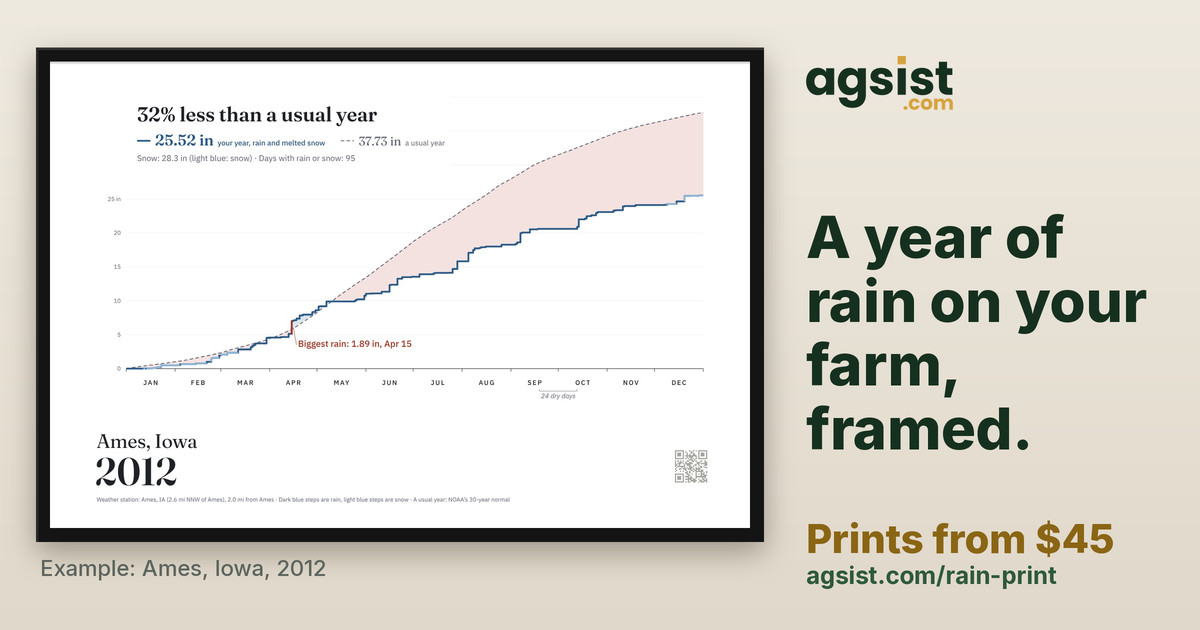
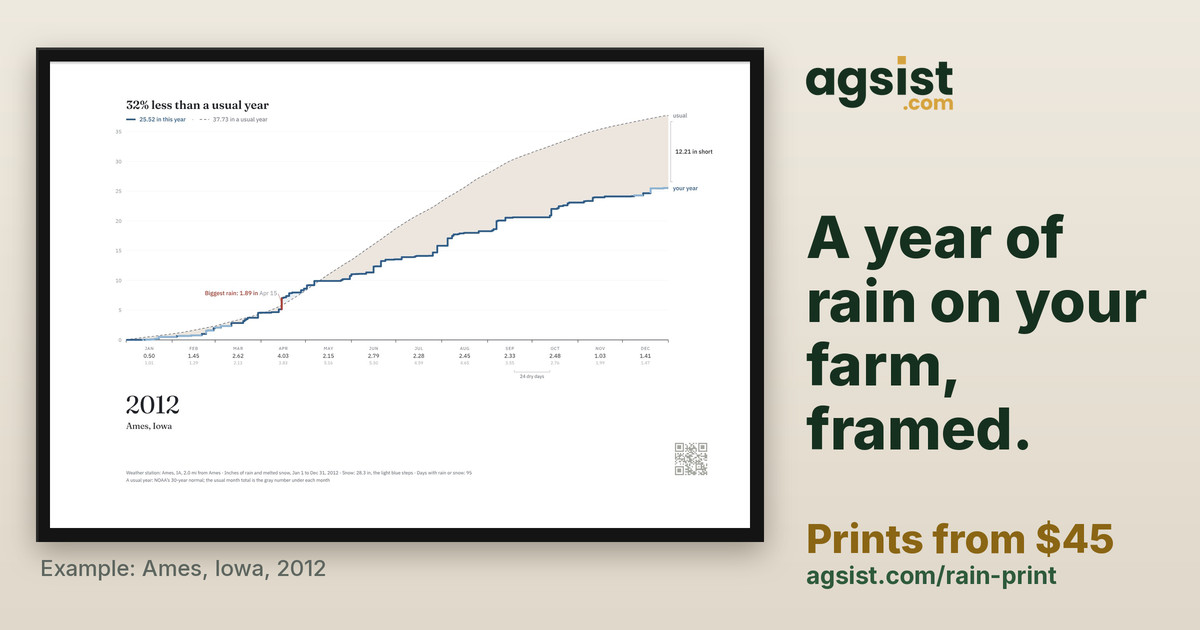
Rain Print share image and homepage thumb redrawn in the A2 clean style

diff --git a/rain-print.html b/rain-print.html
@@ -26,7 +26,7 @@
   <meta property="og:title"        content="Rain Print: a year of rain and snow at the farm, printed and framed">
   <meta property="og:description"  content="Every rain and snow of one year at the weather station nearest a farm or hometown, drawn and printed on 13 x 19 paper with a name and dates. A gift for the farmer.">
   <meta property="og:url"          content="https://agsist.com/rain-print">
-  <meta property="og:image"        content="https://agsist.com/img/og/rain-print.jpg?v=7cd1030a">
+  <meta property="og:image"        content="https://agsist.com/img/og/rain-print.jpg?v=378d9c2f">
   <meta property="og:image:width"  content="1200">
   <meta property="og:image:height" content="630">
   <meta property="og:image:alt"    content="An example Rain Print in a black frame: every rain and snow of 2012 at Ames, Iowa, from NOAA records, stepping up across the months below a usual year. A year of rain on your farm, framed. Prints from $45.">
@@ -34,10 +34,10 @@
   <meta name="twitter:site"        content="@agsist">
   <meta name="twitter:title"       content="Rain Print: a year of rain and snow at the farm, printed and framed">
   <meta name="twitter:description" content="Every rain and snow of one year at the weather station nearest a farm or hometown, drawn and printed on 13 x 19 paper with a name and dates. A gift for the farmer.">
-  <meta name="twitter:image"       content="https://agsist.com/img/og/rain-print.jpg?v=7cd1030a">
+  <meta name="twitter:image"       content="https://agsist.com/img/og/rain-print.jpg?v=378d9c2f">
   <script>/* agsist-theme-early: saved theme, else the device's, set before first paint so pages do not flash the wrong color. loader.js applies the same rule. */try{var _t=localStorage.getItem('agsist-theme');if(_t!=='light'&&_t!=='dark')_t=window.matchMedia&&matchMedia('(prefers-color-scheme: light)').matches?'light':'dark';document.documentElement.setAttribute('data-theme',_t);}catch(e){}</script><script>/* agsist-ga-guard 2026-10-17: Google Analytics loads only when the browser sends no Global Privacy Control signal, the off switch on /privacy is not set and the browser is not automated (navigator.webdriver, or a headless, Lighthouse or bot UA string), and only once the page is shown (a page loaded ahead in the background is not a visit). dataLayer and gtag always exist, so page code that calls them never throws. */(function(w,d,n){var off=false,v,i,s,u;w.dataLayer=w.dataLayer||[];if(typeof w.gtag!=='function'){w.gtag=function(){w.dataLayer.push(arguments);};}try{off=w.localStorage.getItem('agsist-ga-off')==='1';}catch(e){}if(n.globalPrivacyControl===true){off=true;}u=n.userAgent||'';if(n.webdriver===true||(/HeadlessChrome|PhantomJS|Lighthouse|bot|crawler|spider/i.test(u)&&!/cubot/i.test(u))){off=true;}w.agsistGaOff=off;w.gtag('set','allow_google_signals',false);w.gtag('set','allow_ad_personalization_signals',false);if(off){return;}i=function(){s=d.createElement('script');s.async=true;s.src='https://www.googletagmanager.com/gtag/js?id=G-6KXCTD5Z9H';(d.head||d.documentElement).appendChild(s);};if(d.prerendering){d.addEventListener('prerenderingchange',i,{once:true});}else{i();}})(window,document,navigator);</script>
   <script>window.dataLayer=window.dataLayer||[];function gtag(){dataLayer.push(arguments);}gtag('js',new Date());/* Rain Print keeps the farm name, dates and town in the URL; Analytics gets the bare path only (privacy audit 2026-10-12). */gtag('set',{page_location:location.origin+location.pathname});gtag('config','G-6KXCTD5Z9H',{page_location:location.origin+location.pathname,page_referrer:document.referrer?document.referrer.split('?')[0]:''});</script>
-  <script type="application/ld+json">{"@context": "https://schema.org", "@graph": [{"@type": "WebApplication", "name": "Rain Print by AGSIST", "description": "Draws one year of daily precipitation at the nearest weather station as printable wall art.", "url": "https://agsist.com/rain-print", "applicationCategory": "DesignApplication", "operatingSystem": "Web", "isAccessibleForFree": true}, {"@type": "Product", "name": "Rain Print", "description": "One year of daily rain and snow at the NOAA weather station nearest a farm or town, drawn and printed on 13 x 19 in paper with a name and dates.", "brand": {"@type": "Brand", "name": "AGSIST"}, "url": "https://agsist.com/rain-print", "offers": [{"@type": "Offer", "name": "Digital file", "price": "19", "priceCurrency": "USD", "url": "https://agsist.com/rain-print", "sku": "rp-digital", "availability": "https://schema.org/MadeToOrder", "itemCondition": "https://schema.org/NewCondition", "seller": {"@type": "Person", "name": "Sigurd Lindquist", "jobTitle": "Certified Crop Adviser (CCA)", "url": "https://agsist.com/about", "affiliation": {"@type": "Organization", "name": "AGSIST", "url": "https://agsist.com/"}}, "hasMerchantReturnPolicy": {"@type": "MerchantReturnPolicy", "applicableCountry": "US", "returnPolicyCategory": "https://schema.org/MerchantReturnNotPermitted", "merchantReturnLink": "https://agsist.com/rain-print#rp-faq-h", "description": "The digital file comes finished; if you want anything changed, write to me and I’ll fix it or redo it by hand and send it again, no charge."}}, {"@type": "Offer", "name": "Print on 13 x 19 in paper, unframed, shipping included", "price": "45", "priceCurrency": "USD", "url": "https://agsist.com/rain-print", "sku": "rp-print-12x18", "availability": "https://schema.org/MadeToOrder", "itemCondition": "https://schema.org/NewCondition", "seller": {"@type": "Person", "name": "Sigurd Lindquist", "jobTitle": "Certified Crop Adviser (CCA)", "url": "https://agsist.com/about", "affiliation": {"@type": "Organization", "name": "AGSIST", "url": "https://agsist.com/"}}, "shippingDetails": {"@type": "OfferShippingDetails", "shippingRate": {"@type": "MonetaryAmount", "value": "0", "currency": "USD"}, "shippingDestination": {"@type": "DefinedRegion", "addressCountry": "US", "addressRegion": ["AL", "AK", "AZ", "AR", "CA", "CO", "CT", "DE", "FL", "GA", "HI", "ID", "IL", "IN", "IA", "KS", "KY", "LA", "ME", "MD", "MA", "MI", "MN", "MS", "MO", "MT", "NE", "NV", "NH", "NJ", "NM", "NY", "NC", "ND", "OH", "OK", "OR", "PA", "RI", "SC", "SD", "TN", "TX", "UT", "VT", "VA", "WA", "WV", "WI", "WY"]}}, "hasMerchantReturnPolicy": {"@type": "MerchantReturnPolicy", "applicableCountry": "US", "returnPolicyCategory": "https://schema.org/MerchantReturnNotPermitted", "merchantReturnLink": "https://agsist.com/rain-print#rp-faq-h", "description": "Made to order with your name and dates, so it can’t be returned once printed. Full refund if you change your mind before I print. If I print something different from the proof you OK’d, I reprint it free. Lost or damaged in shipping: reprinted or reframed for $15."}}, {"@type": "Offer", "name": "Framed print, 13 x 19 black frame with a white mat, shipping included", "price": "89", "priceCurrency": "USD", "url": "https://agsist.com/rain-print", "sku": "rp-framed-12x18", "availability": "https://schema.org/MadeToOrder", "itemCondition": "https://schema.org/NewCondition", "seller": {"@type": "Person", "name": "Sigurd Lindquist", "jobTitle": "Certified Crop Adviser (CCA)", "url": "https://agsist.com/about", "affiliation": {"@type": "Organization", "name": "AGSIST", "url": "https://agsist.com/"}}, "shippingDetails": {"@type": "OfferShippingDetails", "shippingRate": {"@type": "MonetaryAmount", "value": "0", "currency": "USD"}, "shippingDestination": {"@type": "DefinedRegion", "addressCountry": "US", "addressRegion": ["AL", "AK", "AZ", "AR", "CA", "CO", "CT", "DE", "FL", "GA", "HI", "ID", "IL", "IN", "IA", "KS", "KY", "LA", "ME", "MD", "MA", "MI", "MN", "MS", "MO", "MT", "NE", "NV", "NH", "NJ", "NM", "NY", "NC", "ND", "OH", "OK", "OR", "PA", "RI", "SC", "SD", "TN", "TX", "UT", "VT", "VA", "WA", "WV", "WI", "WY"]}}, "hasMerchantReturnPolicy": {"@type": "MerchantReturnPolicy", "applicableCountry": "US", "returnPolicyCategory": "https://schema.org/MerchantReturnNotPermitted", "merchantReturnLink": "https://agsist.com/rain-print#rp-faq-h", "description": "Made to order with your name and dates, so it can’t be returned once printed. Full refund if you change your mind before I print. If I print something different from the proof you OK’d, I reprint it free. Lost or damaged in shipping: reprinted or reframed for $15."}}], "image": ["https://agsist.com/img/og/rain-print.jpg?v=7cd1030a", "https://agsist.com/img/rain-print-example-2012-ames-ia.jpg", "https://agsist.com/img/rain-print-example-1993-des-moines-ia.jpg"], "sku": "rain-print"}, {"@type": "FAQPage", "mainEntity": [{"@type": "Question", "name": "Where does the rain data come from?", "acceptedAnswer": {"@type": "Answer", "text": "From the nearest weather station with a good record for that year, from NOAA’s daily records. Some are National Weather Service stations, some are rain gauges kept by volunteers; the line under the picture says which. The print names the station and how far it is from town, in a small line at the bottom. It’s that station’s gauge, so a storm that hit the farm and missed the station won’t show. If there’s a station closer to the farm, pick it under Weather station, in More options."}}, {"@type": "Question", "name": "What does “a usual year” mean?", "acceptedAnswer": {"@type": "Answer", "text": "When you compare with NOAA’s 30-year normal, a usual year is that normal for the station. When you compare with the station’s full record, it’s the station’s own average over every year it has kept. Either way, a day the station didn’t report is left out of both totals. The print says which one it used."}}, {"@type": "Question", "name": "What if the station missed days?", "acceptedAnswer": {"@type": "Answer", "text": "Missing days show as gaps, never as dry days, and a small line on the print says what a gap is. The page reads the three nearest stations and picks the first with 10 or fewer missing days. A station missing 11 to 31 days can still be drawn, and the line under the print says how many. A station missing more than 31 days in the year gets no print, because the gaps would look like dry weeks that may not have been dry. A morning reading is filed under the day it was read, so an evening storm can show on the next day."}}, {"@type": "Question", "name": "Does it show snow?", "acceptedAnswer": {"@type": "Answer", "text": "Yes, where the station kept a snowfall record nearly every day. Snow is drawn above the line, never below it, and looks different from rain, so you can tell a snow day from a rain at a glance. If the station didn’t keep snowfall, the snow is still counted, melted down to water the way the gauge measures it, but it can’t be drawn as snow. The year in numbers, under More options, says which."}}, {"@type": "Question", "name": "How are the crop stages placed?", "acceptedAnswer": {"@type": "Answer", "text": "Mark the planting day and the harvest day, then pick corn or soybeans under More options. Each stage goes on the day the growing degree days at the station reached it, counted from planting the same way as the GDU calculator: each day’s high and low held between 50°F and 86°F, averaged, less 50. Corn stages use Purdue’s NCH-40 numbers for a 2,700 GDU hybrid. Soybeans show emergence and V3 only: their flowering and maturity depend on day length and variety, so they are not drawn. A day with no temperature reading stops the count, and no later stage is claimed. Compare with a usual year runs the same crop on NOAA’s 1991 to 2020 normal temperatures and says how many days ahead or behind silking (corn) or V3 (soybeans) came."}}, {"@type": "Question", "name": "Where do the frost dates and temperatures come from?", "acceptedAnswer": {"@type": "Answer", "text": "From the nearest weather station that kept daily highs and lows that year, often the same one as the rain; the print names it. Frost is a low of 32°F or colder: the last one before August and the first one after July get a small mark on the date line. If a missing reading could hide a later or earlier frost, that frost is left off. The hottest and coldest day go in the small print. Daily temperatures adds a thin band under the chart with each day’s high and low; a day with no reading is a gap."}}, {"@type": "Question", "name": "What are the gray lines behind the year?", "acceptedAnswer": {"@type": "Answer", "text": "That’s the Every year behind your year option. Each gray line is another full year the station kept, every day reported, drawn the same way as yours, with your year in blue on top. The two wettest and two driest of them have their year written at the end of the line, and the print says where your year ranks. It needs at least 30 full years, so the print uses the nearest station with that long a record, which may be a few miles farther, and names it. Staircase only."}}, {"@type": "Question", "name": "Can I see the year’s total for free?", "acceptedAnswer": {"@type": "Answer", "text": "Yes. Drawing it is free and so are the numbers. Once your year is drawn, open More options, then The year in numbers. It shows the year’s rain and melted snow, the snowfall, the wettest day, the longest dry stretch and, if you pick something to compare with, a usual year’s total. You only pay if you want the print. For rain so far this year in every county, see the county link at the bottom of this page."}}, {"@type": "Question", "name": "Can I give this year’s print for Christmas?", "acceptedAnswer": {"@type": "Answer", "text": "Yes. Pick this year in the Year box and order at the regular price. Within 1 business day of paying, I email you a gift card to print for under the tree, with their name, your message and a code they use to see their print. I make the full-year print once the full year is in and send it in January, with a proof to you first. A digital file comes finished in January instead, and I’ll redo it if you want a change."}}, {"@type": "Question", "name": "Can you ship it straight to them with a note?", "acceptedAnswer": {"@type": "Answer", "text": "Yes. At checkout, give their name, your note and their address. I ship the print with your note printed at the top of the letter in the box, at no charge. No prices go in the box."}}, {"@type": "Question", "name": "What comes in the box?", "acceptedAnswer": {"@type": "Answer", "text": "The print ships flat between chipboard; the framed print is packed with corner guards and foam and double-boxed. On top is a one-page letter, so whoever opens it knows what it is: where the rain came from, how to read the print, and the year in numbers, the same ones the print shows, with its serial number. If it’s a gift, your note is printed at the top of that letter. No prices go in the box. The digital file comes by email, so there’s no box."}}, {"@type": "Question", "name": "Can I order more than one?", "acceptedAnswer": {"@type": "Answer", "text": "Yes. Make one, order it, then change the town or the year and order the next: one for each of the kids, or one for the home farm and one for the rented ground. Each gets its own proof, and shipping is included in each. Ordering 5 or more for a business? See For businesses above."}}, {"@type": "Question", "name": "Can I make one for our wedding year or the year a child was born?", "acceptedAnswer": {"@type": "Answer", "text": "Yes. Pick the year, anywhere back to 1890 if the station kept records that long, and mark the day itself under Mark a day. You can mark up to 5 days, so the wedding, a birthday and the year’s first harvest can all go on one print. Put the names on the name line and a few words on the line under it."}}, {"@type": "Question", "name": "Is it a good gift for a farmer who has everything?", "acceptedAnswer": {"@type": "Answer", "text": "That’s who I make it for. They already have the boots and the pocketknife. They don’t have the year they still talk about, the drought or the wet spring or the year they bought the place, drawn day by day from the gauge nearest the farm and framed to hang. The order-by date for Christmas is on each choice when you order."}}, {"@type": "Question", "name": "How big is it?", "acceptedAnswer": {"@type": "Answer", "text": "It’s printed on 13 x 19 inch matte paper, hung sideways, with the picture 16.5 x 11 inches in the middle and white all around it. It fits a standard 13 x 19 frame with an 11 x 17 mat. The framed one comes in a 13 x 19 black frame with a white mat and a real glass front, ready to hang. Every print I make is numbered, and I initial each one by hand in pencil."}}, {"@type": "Question", "name": "When will it arrive?", "acceptedAnswer": {"@type": "Answer", "text": "Prints and framed prints ship within 3 business days after you approve the proof, anywhere in the 50 states, Alaska and Hawaii included, and shipping is included in the price. To have a past year by Christmas, anywhere in the 50 states, order by the date shown with your choice: it allows a day for the proof, a day for you to OK it, 3 business days to ship and the time in the mail. The digital file needs no proof: the finished file comes by email within 1 business day of paying."}}, {"@type": "Question", "name": "Can a business order a set?", "acceptedAnswer": {"@type": "Answer", "text": "Yes, from 5 prints, each with its own town and year if you like. Every price includes shipping. 5 to 9 prints cost the regular price, on one invoice. 10 to 24 are $40 a print or $79 framed; 25 to 49, $37 or $75; 50 to 100, $35 or $72. From 10 prints, all to one address takes $3 off each print and $6 off each framed. Over 100, ask me. Your message is printed at the top of the letter in the box, not on the print. Your business name stays off the print too; a logo can go on it, small next to the name, if you upload one. Invoice, net 30, W-9 on request."}}, {"@type": "Question", "name": "What if something’s wrong with it?", "acceptedAnswer": {"@type": "Answer", "text": "A print or framed print waits for your OK on the proof, so check the spelling there. If I print something different from the proof you OK’d, I’ll reprint it free. The digital file comes finished; if you want anything changed, write to me and I’ll fix it or redo it by hand and send it again, no charge. If it arrives damaged, glass included, send a photo. If tracking shows it lost, write to me. Either way I’ll reprint or reframe it for $15, with the same serial number. If you change your mind before I print, I’ll refund you in full. Once it’s printed with your name and dates, I can’t take it back, but I’ll make it right if something’s wrong. For a gift print of this year, if the station ends up missing too many days, I’ll use the next nearest station with your OK, or refund you in full. Write to me at sig@farmers1st.com."}}, {"@type": "Question", "name": "What is the small square in the corner?", "acceptedAnswer": {"@type": "Answer", "text": "My maker’s mark. It’s also a working QR code. On your finished print, it opens your print’s own page, with the same place, year, style, name and dates. On the preview here, it opens the Rain Print page."}}]}, {"@type": "BreadcrumbList", "itemListElement": [{"@type": "ListItem", "position": 1, "name": "Home", "item": "https://agsist.com/"}, {"@type": "ListItem", "position": 2, "name": "Rain Print", "item": "https://agsist.com/rain-print"}]}]}</script>
+  <script type="application/ld+json">{"@context": "https://schema.org", "@graph": [{"@type": "WebApplication", "name": "Rain Print by AGSIST", "description": "Draws one year of daily precipitation at the nearest weather station as printable wall art.", "url": "https://agsist.com/rain-print", "applicationCategory": "DesignApplication", "operatingSystem": "Web", "isAccessibleForFree": true}, {"@type": "Product", "name": "Rain Print", "description": "One year of daily rain and snow at the NOAA weather station nearest a farm or town, drawn and printed on 13 x 19 in paper with a name and dates.", "brand": {"@type": "Brand", "name": "AGSIST"}, "url": "https://agsist.com/rain-print", "offers": [{"@type": "Offer", "name": "Digital file", "price": "19", "priceCurrency": "USD", "url": "https://agsist.com/rain-print", "sku": "rp-digital", "availability": "https://schema.org/MadeToOrder", "itemCondition": "https://schema.org/NewCondition", "seller": {"@type": "Person", "name": "Sigurd Lindquist", "jobTitle": "Certified Crop Adviser (CCA)", "url": "https://agsist.com/about", "affiliation": {"@type": "Organization", "name": "AGSIST", "url": "https://agsist.com/"}}, "hasMerchantReturnPolicy": {"@type": "MerchantReturnPolicy", "applicableCountry": "US", "returnPolicyCategory": "https://schema.org/MerchantReturnNotPermitted", "merchantReturnLink": "https://agsist.com/rain-print#rp-faq-h", "description": "The digital file comes finished; if you want anything changed, write to me and I’ll fix it or redo it by hand and send it again, no charge."}}, {"@type": "Offer", "name": "Print on 13 x 19 in paper, unframed, shipping included", "price": "45", "priceCurrency": "USD", "url": "https://agsist.com/rain-print", "sku": "rp-print-12x18", "availability": "https://schema.org/MadeToOrder", "itemCondition": "https://schema.org/NewCondition", "seller": {"@type": "Person", "name": "Sigurd Lindquist", "jobTitle": "Certified Crop Adviser (CCA)", "url": "https://agsist.com/about", "affiliation": {"@type": "Organization", "name": "AGSIST", "url": "https://agsist.com/"}}, "shippingDetails": {"@type": "OfferShippingDetails", "shippingRate": {"@type": "MonetaryAmount", "value": "0", "currency": "USD"}, "shippingDestination": {"@type": "DefinedRegion", "addressCountry": "US", "addressRegion": ["AL", "AK", "AZ", "AR", "CA", "CO", "CT", "DE", "FL", "GA", "HI", "ID", "IL", "IN", "IA", "KS", "KY", "LA", "ME", "MD", "MA", "MI", "MN", "MS", "MO", "MT", "NE", "NV", "NH", "NJ", "NM", "NY", "NC", "ND", "OH", "OK", "OR", "PA", "RI", "SC", "SD", "TN", "TX", "UT", "VT", "VA", "WA", "WV", "WI", "WY"]}}, "hasMerchantReturnPolicy": {"@type": "MerchantReturnPolicy", "applicableCountry": "US", "returnPolicyCategory": "https://schema.org/MerchantReturnNotPermitted", "merchantReturnLink": "https://agsist.com/rain-print#rp-faq-h", "description": "Made to order with your name and dates, so it can’t be returned once printed. Full refund if you change your mind before I print. If I print something different from the proof you OK’d, I reprint it free. Lost or damaged in shipping: reprinted or reframed for $15."}}, {"@type": "Offer", "name": "Framed print, 13 x 19 black frame with a white mat, shipping included", "price": "89", "priceCurrency": "USD", "url": "https://agsist.com/rain-print", "sku": "rp-framed-12x18", "availability": "https://schema.org/MadeToOrder", "itemCondition": "https://schema.org/NewCondition", "seller": {"@type": "Person", "name": "Sigurd Lindquist", "jobTitle": "Certified Crop Adviser (CCA)", "url": "https://agsist.com/about", "affiliation": {"@type": "Organization", "name": "AGSIST", "url": "https://agsist.com/"}}, "shippingDetails": {"@type": "OfferShippingDetails", "shippingRate": {"@type": "MonetaryAmount", "value": "0", "currency": "USD"}, "shippingDestination": {"@type": "DefinedRegion", "addressCountry": "US", "addressRegion": ["AL", "AK", "AZ", "AR", "CA", "CO", "CT", "DE", "FL", "GA", "HI", "ID", "IL", "IN", "IA", "KS", "KY", "LA", "ME", "MD", "MA", "MI", "MN", "MS", "MO", "MT", "NE", "NV", "NH", "NJ", "NM", "NY", "NC", "ND", "OH", "OK", "OR", "PA", "RI", "SC", "SD", "TN", "TX", "UT", "VT", "VA", "WA", "WV", "WI", "WY"]}}, "hasMerchantReturnPolicy": {"@type": "MerchantReturnPolicy", "applicableCountry": "US", "returnPolicyCategory": "https://schema.org/MerchantReturnNotPermitted", "merchantReturnLink": "https://agsist.com/rain-print#rp-faq-h", "description": "Made to order with your name and dates, so it can’t be returned once printed. Full refund if you change your mind before I print. If I print something different from the proof you OK’d, I reprint it free. Lost or damaged in shipping: reprinted or reframed for $15."}}], "image": ["https://agsist.com/img/og/rain-print.jpg?v=378d9c2f", "https://agsist.com/img/rain-print-example-2012-ames-ia.jpg", "https://agsist.com/img/rain-print-example-1993-des-moines-ia.jpg"], "sku": "rain-print"}, {"@type": "FAQPage", "mainEntity": [{"@type": "Question", "name": "Where does the rain data come from?", "acceptedAnswer": {"@type": "Answer", "text": "From the nearest weather station with a good record for that year, from NOAA’s daily records. Some are National Weather Service stations, some are rain gauges kept by volunteers; the line under the picture says which. The print names the station and how far it is from town, in a small line at the bottom. It’s that station’s gauge, so a storm that hit the farm and missed the station won’t show. If there’s a station closer to the farm, pick it under Weather station, in More options."}}, {"@type": "Question", "name": "What does “a usual year” mean?", "acceptedAnswer": {"@type": "Answer", "text": "When you compare with NOAA’s 30-year normal, a usual year is that normal for the station. When you compare with the station’s full record, it’s the station’s own average over every year it has kept. Either way, a day the station didn’t report is left out of both totals. The print says which one it used."}}, {"@type": "Question", "name": "What if the station missed days?", "acceptedAnswer": {"@type": "Answer", "text": "Missing days show as gaps, never as dry days, and a small line on the print says what a gap is. The page reads the three nearest stations and picks the first with 10 or fewer missing days. A station missing 11 to 31 days can still be drawn, and the line under the print says how many. A station missing more than 31 days in the year gets no print, because the gaps would look like dry weeks that may not have been dry. A morning reading is filed under the day it was read, so an evening storm can show on the next day."}}, {"@type": "Question", "name": "Does it show snow?", "acceptedAnswer": {"@type": "Answer", "text": "Yes, where the station kept a snowfall record nearly every day. Snow is drawn above the line, never below it, and looks different from rain, so you can tell a snow day from a rain at a glance. If the station didn’t keep snowfall, the snow is still counted, melted down to water the way the gauge measures it, but it can’t be drawn as snow. The year in numbers, under More options, says which."}}, {"@type": "Question", "name": "How are the crop stages placed?", "acceptedAnswer": {"@type": "Answer", "text": "Mark the planting day and the harvest day, then pick corn or soybeans under More options. Each stage goes on the day the growing degree days at the station reached it, counted from planting the same way as the GDU calculator: each day’s high and low held between 50°F and 86°F, averaged, less 50. Corn stages use Purdue’s NCH-40 numbers for a 2,700 GDU hybrid. Soybeans show emergence and V3 only: their flowering and maturity depend on day length and variety, so they are not drawn. A day with no temperature reading stops the count, and no later stage is claimed. Compare with a usual year runs the same crop on NOAA’s 1991 to 2020 normal temperatures and says how many days ahead or behind silking (corn) or V3 (soybeans) came."}}, {"@type": "Question", "name": "Where do the frost dates and temperatures come from?", "acceptedAnswer": {"@type": "Answer", "text": "From the nearest weather station that kept daily highs and lows that year, often the same one as the rain; the print names it. Frost is a low of 32°F or colder: the last one before August and the first one after July get a small mark on the date line. If a missing reading could hide a later or earlier frost, that frost is left off. The hottest and coldest day go in the small print. Daily temperatures adds a thin band under the chart with each day’s high and low; a day with no reading is a gap."}}, {"@type": "Question", "name": "What are the gray lines behind the year?", "acceptedAnswer": {"@type": "Answer", "text": "That’s the Every year behind your year option. Each gray line is another full year the station kept, every day reported, drawn the same way as yours, with your year in blue on top. The two wettest and two driest of them have their year written at the end of the line, and the print says where your year ranks. It needs at least 30 full years, so the print uses the nearest station with that long a record, which may be a few miles farther, and names it. Staircase only."}}, {"@type": "Question", "name": "Can I see the year’s total for free?", "acceptedAnswer": {"@type": "Answer", "text": "Yes. Drawing it is free and so are the numbers. Once your year is drawn, open More options, then The year in numbers. It shows the year’s rain and melted snow, the snowfall, the wettest day, the longest dry stretch and, if you pick something to compare with, a usual year’s total. You only pay if you want the print. For rain so far this year in every county, see the county link at the bottom of this page."}}, {"@type": "Question", "name": "Can I give this year’s print for Christmas?", "acceptedAnswer": {"@type": "Answer", "text": "Yes. Pick this year in the Year box and order at the regular price. Within 1 business day of paying, I email you a gift card to print for under the tree, with their name, your message and a code they use to see their print. I make the full-year print once the full year is in and send it in January, with a proof to you first. A digital file comes finished in January instead, and I’ll redo it if you want a change."}}, {"@type": "Question", "name": "Can you ship it straight to them with a note?", "acceptedAnswer": {"@type": "Answer", "text": "Yes. At checkout, give their name, your note and their address. I ship the print with your note printed at the top of the letter in the box, at no charge. No prices go in the box."}}, {"@type": "Question", "name": "What comes in the box?", "acceptedAnswer": {"@type": "Answer", "text": "The print ships flat between chipboard; the framed print is packed with corner guards and foam and double-boxed. On top is a one-page letter, so whoever opens it knows what it is: where the rain came from, how to read the print, and the year in numbers, the same ones the print shows, with its serial number. If it’s a gift, your note is printed at the top of that letter. No prices go in the box. The digital file comes by email, so there’s no box."}}, {"@type": "Question", "name": "Can I order more than one?", "acceptedAnswer": {"@type": "Answer", "text": "Yes. Make one, order it, then change the town or the year and order the next: one for each of the kids, or one for the home farm and one for the rented ground. Each gets its own proof, and shipping is included in each. Ordering 5 or more for a business? See For businesses above."}}, {"@type": "Question", "name": "Can I make one for our wedding year or the year a child was born?", "acceptedAnswer": {"@type": "Answer", "text": "Yes. Pick the year, anywhere back to 1890 if the station kept records that long, and mark the day itself under Mark a day. You can mark up to 5 days, so the wedding, a birthday and the year’s first harvest can all go on one print. Put the names on the name line and a few words on the line under it."}}, {"@type": "Question", "name": "Is it a good gift for a farmer who has everything?", "acceptedAnswer": {"@type": "Answer", "text": "That’s who I make it for. They already have the boots and the pocketknife. They don’t have the year they still talk about, the drought or the wet spring or the year they bought the place, drawn day by day from the gauge nearest the farm and framed to hang. The order-by date for Christmas is on each choice when you order."}}, {"@type": "Question", "name": "How big is it?", "acceptedAnswer": {"@type": "Answer", "text": "It’s printed on 13 x 19 inch matte paper, hung sideways, with the picture 16.5 x 11 inches in the middle and white all around it. It fits a standard 13 x 19 frame with an 11 x 17 mat. The framed one comes in a 13 x 19 black frame with a white mat and a real glass front, ready to hang. Every print I make is numbered, and I initial each one by hand in pencil."}}, {"@type": "Question", "name": "When will it arrive?", "acceptedAnswer": {"@type": "Answer", "text": "Prints and framed prints ship within 3 business days after you approve the proof, anywhere in the 50 states, Alaska and Hawaii included, and shipping is included in the price. To have a past year by Christmas, anywhere in the 50 states, order by the date shown with your choice: it allows a day for the proof, a day for you to OK it, 3 business days to ship and the time in the mail. The digital file needs no proof: the finished file comes by email within 1 business day of paying."}}, {"@type": "Question", "name": "Can a business order a set?", "acceptedAnswer": {"@type": "Answer", "text": "Yes, from 5 prints, each with its own town and year if you like. Every price includes shipping. 5 to 9 prints cost the regular price, on one invoice. 10 to 24 are $40 a print or $79 framed; 25 to 49, $37 or $75; 50 to 100, $35 or $72. From 10 prints, all to one address takes $3 off each print and $6 off each framed. Over 100, ask me. Your message is printed at the top of the letter in the box, not on the print. Your business name stays off the print too; a logo can go on it, small next to the name, if you upload one. Invoice, net 30, W-9 on request."}}, {"@type": "Question", "name": "What if something’s wrong with it?", "acceptedAnswer": {"@type": "Answer", "text": "A print or framed print waits for your OK on the proof, so check the spelling there. If I print something different from the proof you OK’d, I’ll reprint it free. The digital file comes finished; if you want anything changed, write to me and I’ll fix it or redo it by hand and send it again, no charge. If it arrives damaged, glass included, send a photo. If tracking shows it lost, write to me. Either way I’ll reprint or reframe it for $15, with the same serial number. If you change your mind before I print, I’ll refund you in full. Once it’s printed with your name and dates, I can’t take it back, but I’ll make it right if something’s wrong. For a gift print of this year, if the station ends up missing too many days, I’ll use the next nearest station with your OK, or refund you in full. Write to me at sig@farmers1st.com."}}, {"@type": "Question", "name": "What is the small square in the corner?", "acceptedAnswer": {"@type": "Answer", "text": "My maker’s mark. It’s also a working QR code. On your finished print, it opens your print’s own page, with the same place, year, style, name and dates. On the preview here, it opens the Rain Print page."}}]}, {"@type": "BreadcrumbList", "itemListElement": [{"@type": "ListItem", "position": 1, "name": "Home", "item": "https://agsist.com/"}, {"@type": "ListItem", "position": 2, "name": "Rain Print", "item": "https://agsist.com/rain-print"}]}]}</script>
   <style>
   @font-face{font-family:'Fraunces';font-weight:300 600;font-style:normal;font-display:swap;src:url(/fonts/rp-fraunces-opsz.woff2) format('woff2')}
   @font-face{font-family:'Fraunces';font-weight:400;font-style:italic;font-display:swap;src:url(/fonts/rp-fraunces-opsz-400i.woff2) format('woff2')}

diff --git a/gifts-for-farmers.html b/gifts-for-farmers.html
@@ -16,7 +16,7 @@
   <meta property="og:title"        content="Gifts for farmers that actually get used">
   <meta property="og:description"  content="Christmas and retirement gift ideas for a farmer: a print of the year they still talk about, plus bibs, gloves, a headlamp and more. No store links.">
   <meta property="og:url"          content="https://agsist.com/gifts-for-farmers">
-  <meta property="og:image"        content="https://agsist.com/img/og/rain-print.jpg?v=7cd1030a">
+  <meta property="og:image"        content="https://agsist.com/img/og/rain-print.jpg?v=378d9c2f">
   <meta property="og:image:width"  content="1200">
   <meta property="og:image:height" content="630">
   <meta property="og:image:alt" content="Gifts for farmers that actually get used">
@@ -24,7 +24,7 @@
   <meta name="twitter:site"        content="@agsist">
   <meta name="twitter:title"       content="Gifts for farmers that actually get used">
   <meta name="twitter:description" content="Christmas and retirement gift ideas for a farmer: a print of the year they still talk about, plus bibs, gloves, a headlamp and more. No store links.">
-  <meta name="twitter:image"       content="https://agsist.com/img/og/rain-print.jpg?v=7cd1030a">
+  <meta name="twitter:image"       content="https://agsist.com/img/og/rain-print.jpg?v=378d9c2f">
 
   <script>/* agsist-theme-early: saved theme, else the device's, set before first paint so pages do not flash the wrong color. loader.js applies the same rule. */try{var _t=localStorage.getItem('agsist-theme');if(_t!=='light'&&_t!=='dark')_t=window.matchMedia&&matchMedia('(prefers-color-scheme: light)').matches?'light':'dark';document.documentElement.setAttribute('data-theme',_t);}catch(e){}</script><script>/* agsist-ga-guard 2026-10-17: Google Analytics loads only when the browser sends no Global Privacy Control signal, the off switch on /privacy is not set and the browser is not automated (navigator.webdriver, or a headless, Lighthouse or bot UA string), and only once the page is shown (a page loaded ahead in the background is not a visit). dataLayer and gtag always exist, so page code that calls them never throws. */(function(w,d,n){var off=false,v,i,s,u;w.dataLayer=w.dataLayer||[];if(typeof w.gtag!=='function'){w.gtag=function(){w.dataLayer.push(arguments);};}try{off=w.localStorage.getItem('agsist-ga-off')==='1';}catch(e){}if(n.globalPrivacyControl===true){off=true;}u=n.userAgent||'';if(n.webdriver===true||(/HeadlessChrome|PhantomJS|Lighthouse|bot|crawler|spider/i.test(u)&&!/cubot/i.test(u))){off=true;}w.agsistGaOff=off;w.gtag('set','allow_google_signals',false);w.gtag('set','allow_ad_personalization_signals',false);if(off){return;}i=function(){s=d.createElement('script');s.async=true;s.src='https://www.googletagmanager.com/gtag/js?id=G-6KXCTD5Z9H';(d.head||d.documentElement).appendChild(s);};if(d.prerendering){d.addEventListener('prerenderingchange',i,{once:true});}else{i();}})(window,document,navigator);</script>
   <script>window.dataLayer=window.dataLayer||[];function gtag(){dataLayer.push(arguments);}gtag('js',new Date());gtag('config','G-6KXCTD5Z9H');</script>
@@ -69,7 +69,7 @@
     .gf-faq details p{margin:.6rem 0 .2rem}
     .gf-fine{font-size:.84rem!important;color:var(--text-muted)!important}
   </style>
-  <script type="application/ld+json">{"@context": "https://schema.org", "@graph": [{"@type": "Article", "headline": "Gifts for farmers that actually get used", "description": "Christmas and retirement gift ideas for a farmer: a print of the year they still talk about, plus bibs, gloves, a headlamp and more. No store links.", "url": "https://agsist.com/gifts-for-farmers", "mainEntityOfPage": "https://agsist.com/gifts-for-farmers", "image": "https://agsist.com/img/og/rain-print.jpg?v=7cd1030a", "datePublished": "2026-10-13", "dateModified": "2026-10-16", "inLanguage": "en-US", "author": {"@type": "Person", "name": "Sigurd Lindquist", "jobTitle": "Certified Crop Adviser (CCA)", "url": "https://agsist.com/about"}, "publisher": {"@type": "Organization", "name": "AGSIST", "url": "https://agsist.com/", "logo": {"@type": "ImageObject", "url": "https://agsist.com/img/favicon-32.png"}}}, {"@type": "FAQPage", "mainEntity": [{"@type": "Question", "name": "What do you get a farmer who has everything?", "acceptedAnswer": {"@type": "Answer", "text": "Something about their own place, or your time. They already buy the tools they need, usually the day the old one breaks. What they never buy themselves is a framed photo of the yard, a print of the year they still talk about, or a weekend off while somebody else does chores."}}, {"@type": "Question", "name": "What is the last day to order a Rain Print for Christmas?", "acceptedAnswer": {"@type": "Answer", "text": "The order-by dates for a print and a framed print are on this page and on the Rain Print price cards from October on. They allow a day for the proof, a day for you to OK it, 3 business days to ship and the time in the mail. After those dates you can still give this year's print: you get a card to give now, and the print ships in January."}}, {"@type": "Question", "name": "Can it ship straight to them?", "acceptedAnswer": {"@type": "Answer", "text": "Yes. Tick It's a gift when you order, give their name and address, and write a note if you want one. I print the note at the top of the letter in the box. No prices go in the box. Anywhere in the 50 states, and shipping is in the price."}}, {"@type": "Question", "name": "Can I give this year's rain?", "acceptedAnswer": {"@type": "Answer", "text": "Yes. The year isn't over, so I can't print it yet, but you can order it now at the usual price. I email you a gift card to print for under the tree, with a code they use to see their print. The finished print ships in January, once the weather station's December numbers are in, and you see a proof first."}}, {"@type": "Question", "name": "Can a business give these to customers?", "acceptedAnswer": {"@type": "Answer", "text": "Yes. Business orders start at 5 prints, and each print can carry a different customer's town and year. Your business name stays off the print, though a logo can go on it, small next to the name, if you upload one. Your message is printed at the top of the letter in the box. I can ship to you or straight to each customer. Invoice, net 30."}}, {"@type": "Question", "name": "What is a good retirement gift for a farmer?", "acceptedAnswer": {"@type": "Answer", "text": "Something that marks the farm, not the job. A print of their last crop year, or their first and last side by side, a binder of stories from family and neighbors, or a framed aerial of the place. Tools are a poor fit; they already have them, and retirement on a farm rarely means they stop using them."}}, {"@type": "Question", "name": "What is a good farm anniversary gift?", "acceptedAnswer": {"@type": "Answer", "text": "For a couple, a print of the year they married with the wedding day marked. For the farm itself, a framed copy of the old plat map or deed from the year it was bought, or a print of that year's rain. Both hang on the wall and get talked about."}}]}, {"@type": "BreadcrumbList", "itemListElement": [{"@type": "ListItem", "position": 1, "name": "Home", "item": "https://agsist.com/"}, {"@type": "ListItem", "position": 2, "name": "Gifts for farmers", "item": "https://agsist.com/gifts-for-farmers"}]}]}</script>
+  <script type="application/ld+json">{"@context": "https://schema.org", "@graph": [{"@type": "Article", "headline": "Gifts for farmers that actually get used", "description": "Christmas and retirement gift ideas for a farmer: a print of the year they still talk about, plus bibs, gloves, a headlamp and more. No store links.", "url": "https://agsist.com/gifts-for-farmers", "mainEntityOfPage": "https://agsist.com/gifts-for-farmers", "image": "https://agsist.com/img/og/rain-print.jpg?v=378d9c2f", "datePublished": "2026-10-13", "dateModified": "2026-10-16", "inLanguage": "en-US", "author": {"@type": "Person", "name": "Sigurd Lindquist", "jobTitle": "Certified Crop Adviser (CCA)", "url": "https://agsist.com/about"}, "publisher": {"@type": "Organization", "name": "AGSIST", "url": "https://agsist.com/", "logo": {"@type": "ImageObject", "url": "https://agsist.com/img/favicon-32.png"}}}, {"@type": "FAQPage", "mainEntity": [{"@type": "Question", "name": "What do you get a farmer who has everything?", "acceptedAnswer": {"@type": "Answer", "text": "Something about their own place, or your time. They already buy the tools they need, usually the day the old one breaks. What they never buy themselves is a framed photo of the yard, a print of the year they still talk about, or a weekend off while somebody else does chores."}}, {"@type": "Question", "name": "What is the last day to order a Rain Print for Christmas?", "acceptedAnswer": {"@type": "Answer", "text": "The order-by dates for a print and a framed print are on this page and on the Rain Print price cards from October on. They allow a day for the proof, a day for you to OK it, 3 business days to ship and the time in the mail. After those dates you can still give this year's print: you get a card to give now, and the print ships in January."}}, {"@type": "Question", "name": "Can it ship straight to them?", "acceptedAnswer": {"@type": "Answer", "text": "Yes. Tick It's a gift when you order, give their name and address, and write a note if you want one. I print the note at the top of the letter in the box. No prices go in the box. Anywhere in the 50 states, and shipping is in the price."}}, {"@type": "Question", "name": "Can I give this year's rain?", "acceptedAnswer": {"@type": "Answer", "text": "Yes. The year isn't over, so I can't print it yet, but you can order it now at the usual price. I email you a gift card to print for under the tree, with a code they use to see their print. The finished print ships in January, once the weather station's December numbers are in, and you see a proof first."}}, {"@type": "Question", "name": "Can a business give these to customers?", "acceptedAnswer": {"@type": "Answer", "text": "Yes. Business orders start at 5 prints, and each print can carry a different customer's town and year. Your business name stays off the print, though a logo can go on it, small next to the name, if you upload one. Your message is printed at the top of the letter in the box. I can ship to you or straight to each customer. Invoice, net 30."}}, {"@type": "Question", "name": "What is a good retirement gift for a farmer?", "acceptedAnswer": {"@type": "Answer", "text": "Something that marks the farm, not the job. A print of their last crop year, or their first and last side by side, a binder of stories from family and neighbors, or a framed aerial of the place. Tools are a poor fit; they already have them, and retirement on a farm rarely means they stop using them."}}, {"@type": "Question", "name": "What is a good farm anniversary gift?", "acceptedAnswer": {"@type": "Answer", "text": "For a couple, a print of the year they married with the wedding day marked. For the farm itself, a framed copy of the old plat map or deed from the year it was bought, or a print of that year's rain. Both hang on the wall and get talked about."}}]}, {"@type": "BreadcrumbList", "itemListElement": [{"@type": "ListItem", "position": 1, "name": "Home", "item": "https://agsist.com/"}, {"@type": "ListItem", "position": 2, "name": "Gifts for farmers", "item": "https://agsist.com/gifts-for-farmers"}]}]}</script>
 </head>
 <body>
   <a href="#main" class="skip">Skip to content</a>
